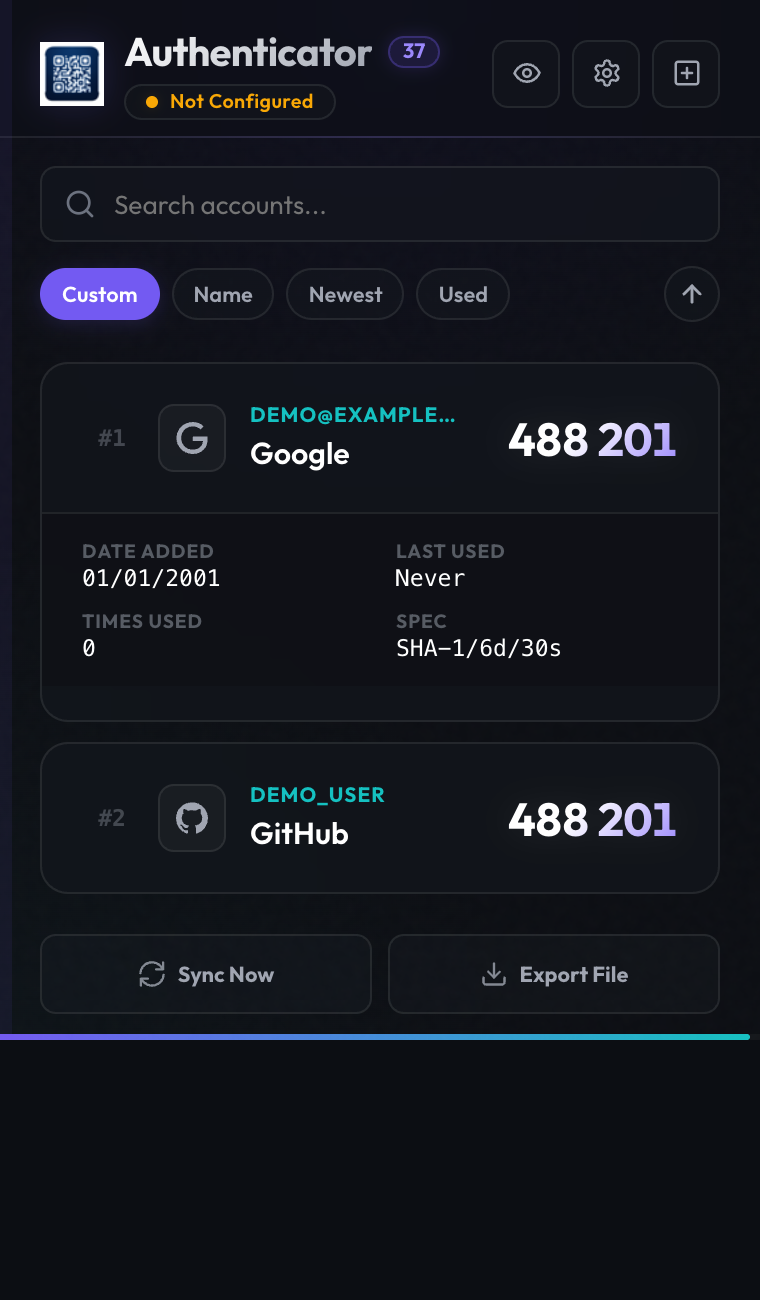
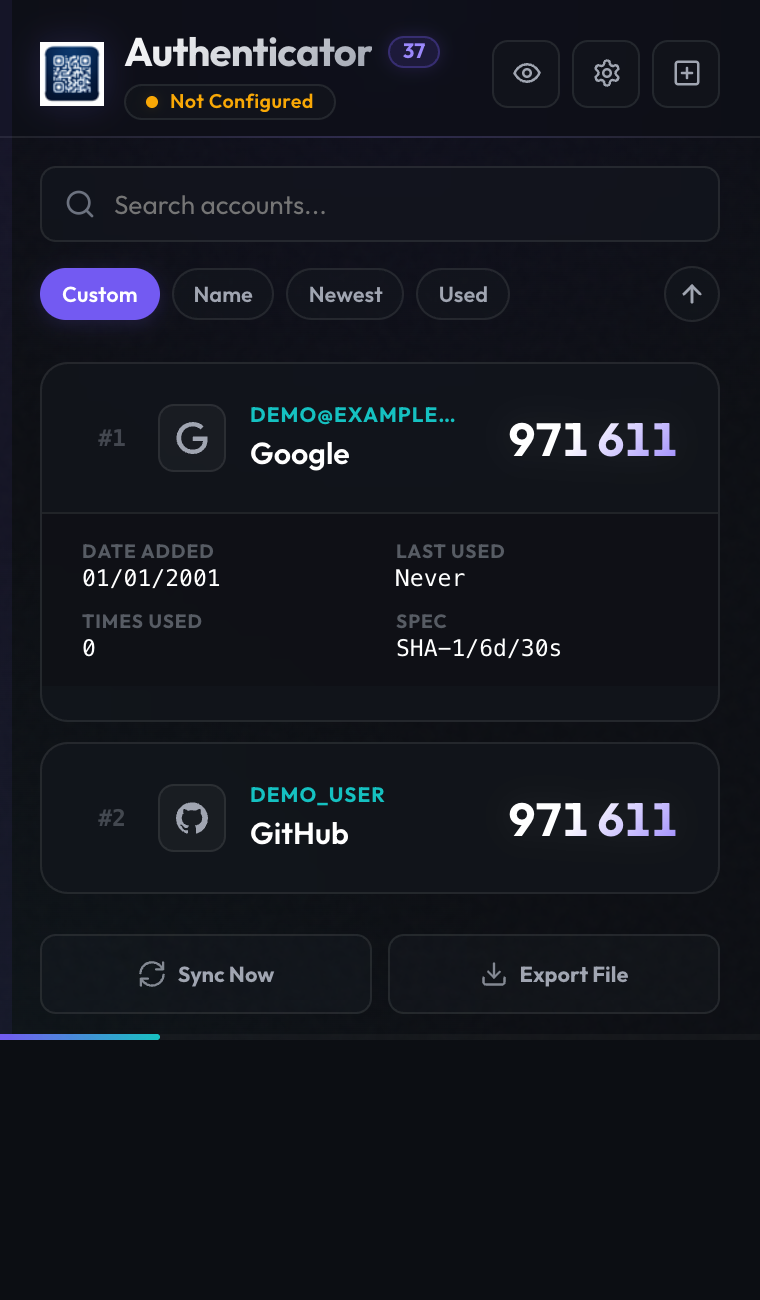
update all screenshots and root image with mock screens

Changed region(s): [[0.0605, 0.7692, 0.9684, 0.8], [0.6658, 0.3077, 0.8474, 0.3692], [0.6658, 0.6154, 0.8776, 0.6462]]

diff --git a/README.md b/README.md
@@ -1,50 +1,90 @@
 # Authenticator
 
-A premium, secure, and beautiful Chrome extension for managing two-factor authentication (2FA) codes. Built with a focus on absolute privacy, fluid glassmorphism aesthetics, and clean user experience.
+A premium, secure, and beautiful Chrome extension for managing two-factor authentication (2FA) codes. Designed with glassmorphism aesthetics, responsive micro-animations, and direct GitHub-backed synchronization to keep your secrets private and in your control.
 
-## Key Features
+## Screenshots
 
-- **Elite UI/UX**: State-of-the-art glassmorphism design with mesh gradients, backdrop blurs, and reactive hover animations.
-- **Connection Status Badge**: Color-coded status badge in the header shows real-time sync states. Click the badge to open the Settings panel instantly.
-- **Dedicated Settings**: Accessed via the gear icon. Setup and configure your GitHub cloud sync, disconnect your vault, or perform a complete local reset from the Danger Zone.
-- **Autonomous Cloud Sync**: Real-time synchronization to a private GitHub repository. No external servers or third parties ever see your secrets.
-- **Multi-Profile Vaults**: Automatic detection of Chrome profile identities. Supports syncing separate vaults for different profiles (e.g., work, personal) under a single GitHub repository.
-- **Inline Editing & Management**: Actions appear on hover. Copy TOTP codes, edit issuer/label fields inline, or delete accounts with full safety confirmations.
-- **Privacy Mode**: Instantly mask sensitive labels, issuer names, and OTP codes for secure usage in public spaces.
-- **Dynamic Sorting & Filtering**:
-  - **Smart Name Sort**: Alphabetical grouping by issuer and account label.
-  - **A-Z / Z-A Toggle**: Flip sorting direction instantly.
-  - **Usage-Based**: Automatically tracks and prioritizes your most frequently accessed codes.
-- **Flexible Data Mobility**:
-  - **Cloud Fetch**: Scan your GitHub vault and merge profile datasets with one click.
-  - **Local Backup**: Export or import your entire vault to/from a local JSON file.
+### Main Vault View
+![Main View](screenshots/main_view.png)
 
-## Installation
+### Hover States & Quick Actions
+![Hover State](screenshots/hover_state.png)
 
-1. Download or clone this repository.
+### Expanded Details Drawer
+![Details Drawer](screenshots/details_drawer.png)
+
+### Hover Alignment in Details Mode
+![Expanded Hover](screenshots/expanded_hover.png)
+
+### Dedicated Settings Panel
+![Settings Page](screenshots/settings_page.png)
+
+### Import & Restore Center
+![Import Modal](screenshots/import_modal.png)
+
+## Core Features
+
+- **Premium Glassmorphism Design**: Rich translucent cards featuring backdrop blur filters, harmonized accents, and responsive layout scaling.
+- **Privacy Masking**: One-click toggling (eye icon) to mask sensitive account labels, issuer names, and current 2FA codes when presenting or using the extension in public spaces.
+- **Dynamic Search & Filtering**: Instant fuzzy search across issuers and account labels.
+- **Smart Sorting Configurations**:
+  - **Custom Order**: Sort accounts by their original addition order (supports reversing with a single click).
+  - **Alphabetical (Name)**: Sort alphabetically by issuer name and label.
+  - **Newest First**: Order accounts by addition date.
+  - **Frequency (Used)**: Auto-prioritize based on usage frequency.
+  - **Direction Toggle**: Instantly flip sorting direction (ascending/descending) with live visual feedback.
+- **Robust Local Storage**: All secret keys and configuration are stored locally in the browser sandbox via `chrome.storage.local`.
+
+## Advanced Features & UX Highlights
+
+### 1. Sequential Indexing
+Each account card is prefixed with a sequential index number (e.g., `#1`, `#2`, `#3`). This provides instant reference points for tracking how many accounts you have and how they are ordered when scrolling through your vault.
+
+### 2. Contextual Metadata Drawer
+Clicking the Info (`i`) action button expands the card to reveal deep metadata for auditing:
+- **Date Added**: Real historical timestamp (retrieved and backfilled directly from your vault's Git commit history).
+- **Last Used**: Accurate tracking of when the OTP code was last copied.
+- **Times Used**: Cumulative counter showing access frequency.
+- **Spec**: Full visibility of the TOTP specification (e.g., `SHA1/6d/30s`).
+
+### 3. Chrome Profile Identification & Access Auditing
+Prevent cross-profile leakage. The expanded card lists all browser profiles actively syncing that specific credential under **Synced Profiles** (e.g., `work@example.com`, `personal@example.com`).
+
+### 4. Interactive Click-to-Copy Triggers
+To prevent accidental clipboard overwrites when clicking around cards, click-to-copy is scoped specifically to:
+- The sequential index number.
+- The actual 2FA code element.
+- The dedicated copy action icon.
+Interactive elements feature hover glow effects and tactile scale-down active animations.
+
+### 5. Fluid Layout Adaptability
+On hover, the card height expands cleanly, action buttons fade/slide in at the top-right, and the active 2FA code slides down to the bottom-right. The layout prevents content squishing, and long labels/issuers are truncated with an ellipsis on a single line to avoid layout breaks. When the details drawer is open, hover height expands to `204px`, shifting the divider line down so the sliding code never overlaps borders.
+
+## Cloud Vault Synchronization
+
+Rather than relying on third-party servers, Authenticator syncs directly with a private GitHub repository under your control:
+- **Zero Intermediary Servers**: The extension talks directly to the GitHub API via client-side requests.
+- **Merge Conflict Resolution**: Synchronizing performs a pull-and-merge of remote changes with local storage, ensuring updates from other Chrome profiles are safely combined.
+- **Isolated Target Files**: Separate profiles write to profile-isolated files in the vault repository, preventing data leakage.
+
+### Setup Instructions
+
+1. **Create Repository**: Create a private GitHub repository (e.g., `authenticator-vault`).
+2. **Generate Token**: Generate a Personal Access Token (classic) on GitHub with the `repo` scope.
+3. **Configure Settings**: Open the extension, click the gear icon (Settings) in the top-right, and enter:
+   - **GitHub Personal Access Token**
+   - **Repository Path** (format: `username/repository-name`)
+4. **Link Vault**: Click **Link Cloud Vault**. The badge in the header will update to show the connection status, and background synchronization will automatically handle backups.
+
+## Local Backups
+
+If you prefer offline backups:
+- **Export**: Click **Export File** to save your decrypted vault as a JSON file.
+- **Import**: Click **Sync Now / Import** and drag-and-drop or select your backup file to restore your accounts instantly.
+
+## Developer & Installation
+
+1. Clone or download this repository.
 2. Open Chrome and navigate to `chrome://extensions/`.
-3. Enable **Developer mode** in the top right corner.
-4. Click **Load unpacked** and select the extension folder.
-
-## Cloud Sync Setup
-
-1. Create a **Private** repository on GitHub (e.g., `authenticator-vault`).
-2. Generate a **Personal Access Token (classic)** with the `repo` scope.
-3. Open the extension, click the gear icon to open **Settings**, and enter your GitHub token, repository path (`username/repo`), and optional target file path.
-4. Click **Link Cloud Vault** to connect. Your vault will automatically sync in the background.
-
-## Usage
-
-- **Add Account**: Click the `+` button in the header to import a QR code image or paste a raw secret key.
-- **Copy TOTP Code**: Click an account card or hover over it and click the copy icon.
-- **Edit/Delete**: Hover over any card to reveal edit (pencil) and delete (trash) controls.
-- **Toggle Privacy Mode**: Click the eye icon in the header to hide or reveal codes and issuer names.
-- **Sync/Backup/Restore**: Click **Cloud Sync** or **Export Backup** in the footer to import local files, backup data, or restore from the cloud vault.
-
-## Security & Privacy
-
-Privacy is the core pillar of this project.
-
-- **Local First**: All secrets are stored securely within your browser's local sandbox using `chrome.storage.local`.
-- **Zero Third-Party Servers**: Synchronization communicates directly with the GitHub API from your browser.
-- **Isolated Vault Files**: Separate browser profiles write to separate files in your repository, preventing cross-profile data leakage.
+3. Enable **Developer mode** (top-right toggle).
+4. Click **Load unpacked** and select the root directory of this extension.
